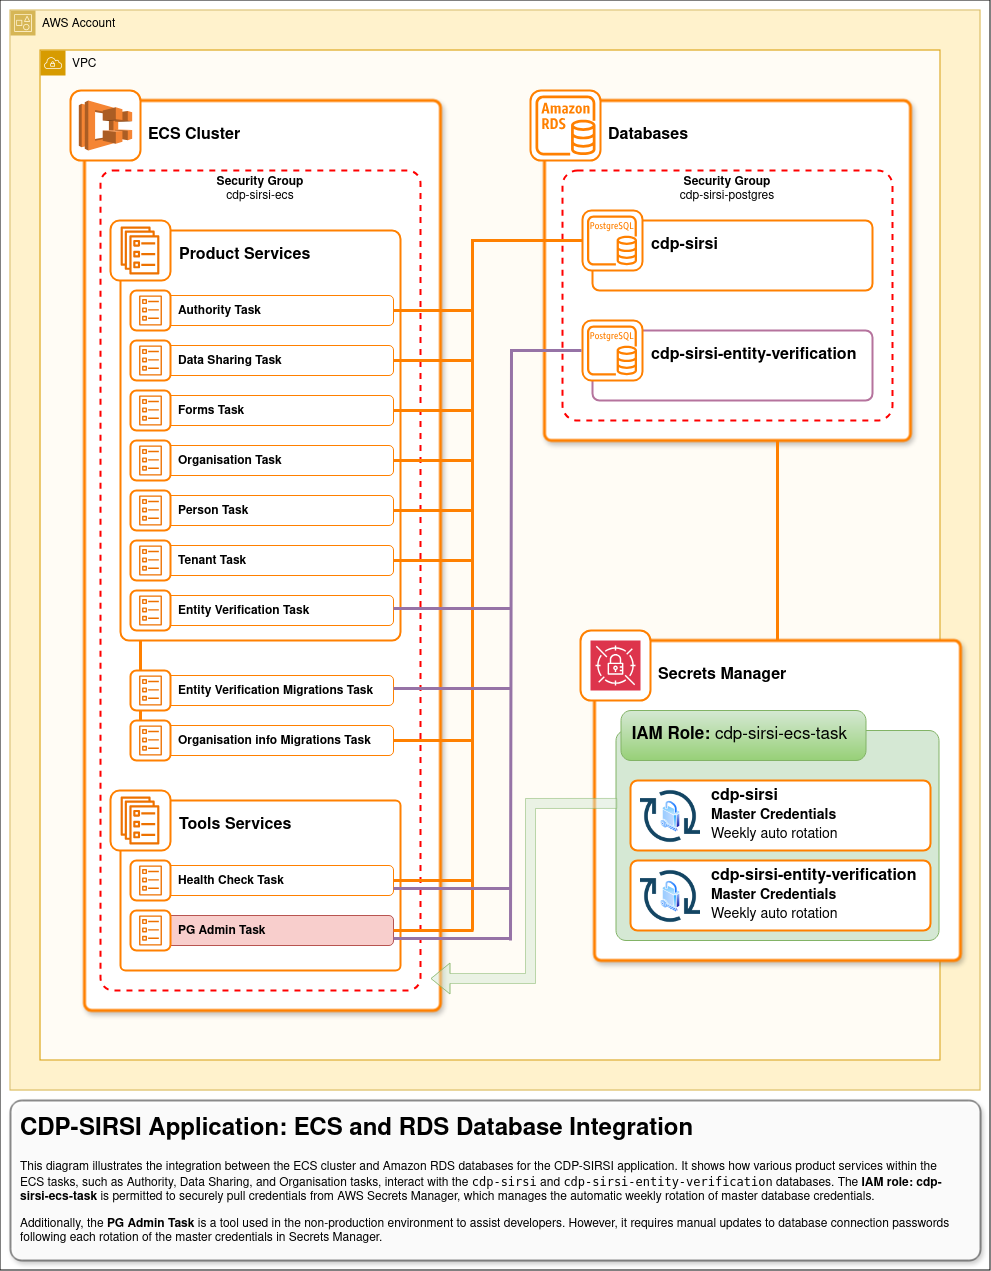
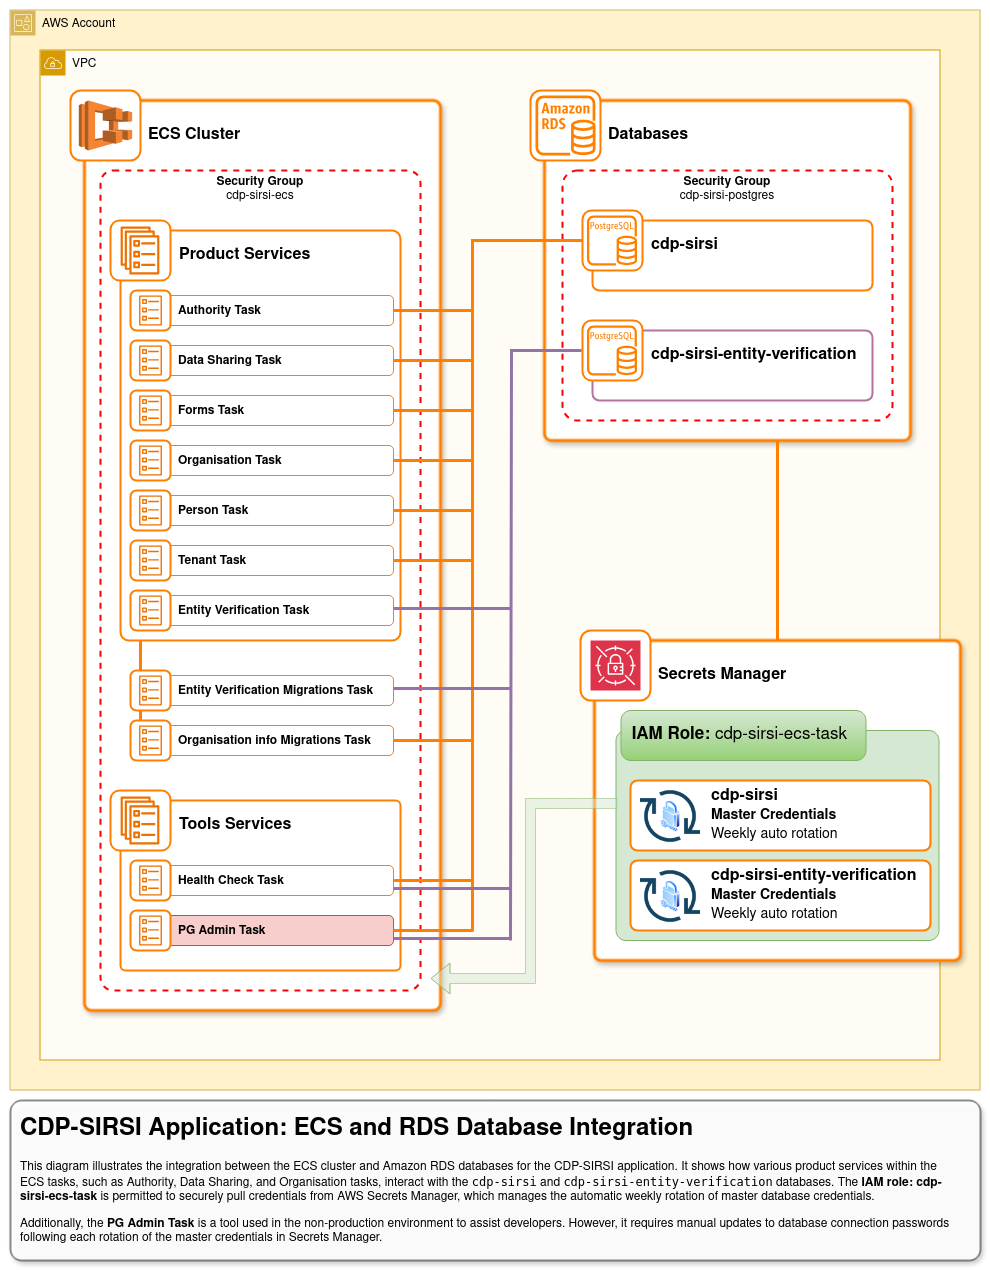
DP-641 Add links for different diagrams, remove PNG border and separate sections

diff --git a/terragrunt/docs/README.md b/terragrunt/docs/README.md
@@ -2,11 +2,19 @@
 
 ## Diagrams
 
+- [High-Level Overview (DNS, Networking, ECS, and Data Flow)](#cdp-sirsi-application-high-level-overview-of-dns-networking-ecs-and-data-flow)
+- [ECS and RDS Database Integration](#cdp-sirsi-application-ecs-and-rds-database-integration)
+- [ECS and SQS Queue Integration](#cdp-sirsi-application-ecs-and-sqs-queue-integration)
+
+---
+
 ### CDP-SIRSI Application: High-Level Overview of DNS, Networking, ECS, and Data Flow
 
 This diagram provides an overview of the CDP-SIRSI application’s architecture, covering DNS records, load balancing, ECS services, and database connections. It includes key services and interactions but does not represent the complete implementation details.
 
 ![CDP-SIRSI-HLO-DNS-NET-ECS-DATA](./diagrams/CDP-SIRSI-HLO-DNS-NET-ECS-DATA.png)
+
+---
 
 ### CDP-SIRSI Application: ECS and RDS Database Integration
 
@@ -15,6 +23,8 @@ This diagram illustrates the integration between the ECS cluster and Amazon RDS 
 Additionally, the PG Admin Task is a tool used in the non-production environment to assist developers. However, it requires manual updates to database connection passwords following each rotation of the master credentials in Secrets Manager.
 
 ![CDP-SIRSI-ECS-RDS](./diagrams/CDP-SIRSI-ECS-RDS.png)
+
+---
 
 ### CDP-SIRSI Application: ECS and SQS Queue Integration
 
